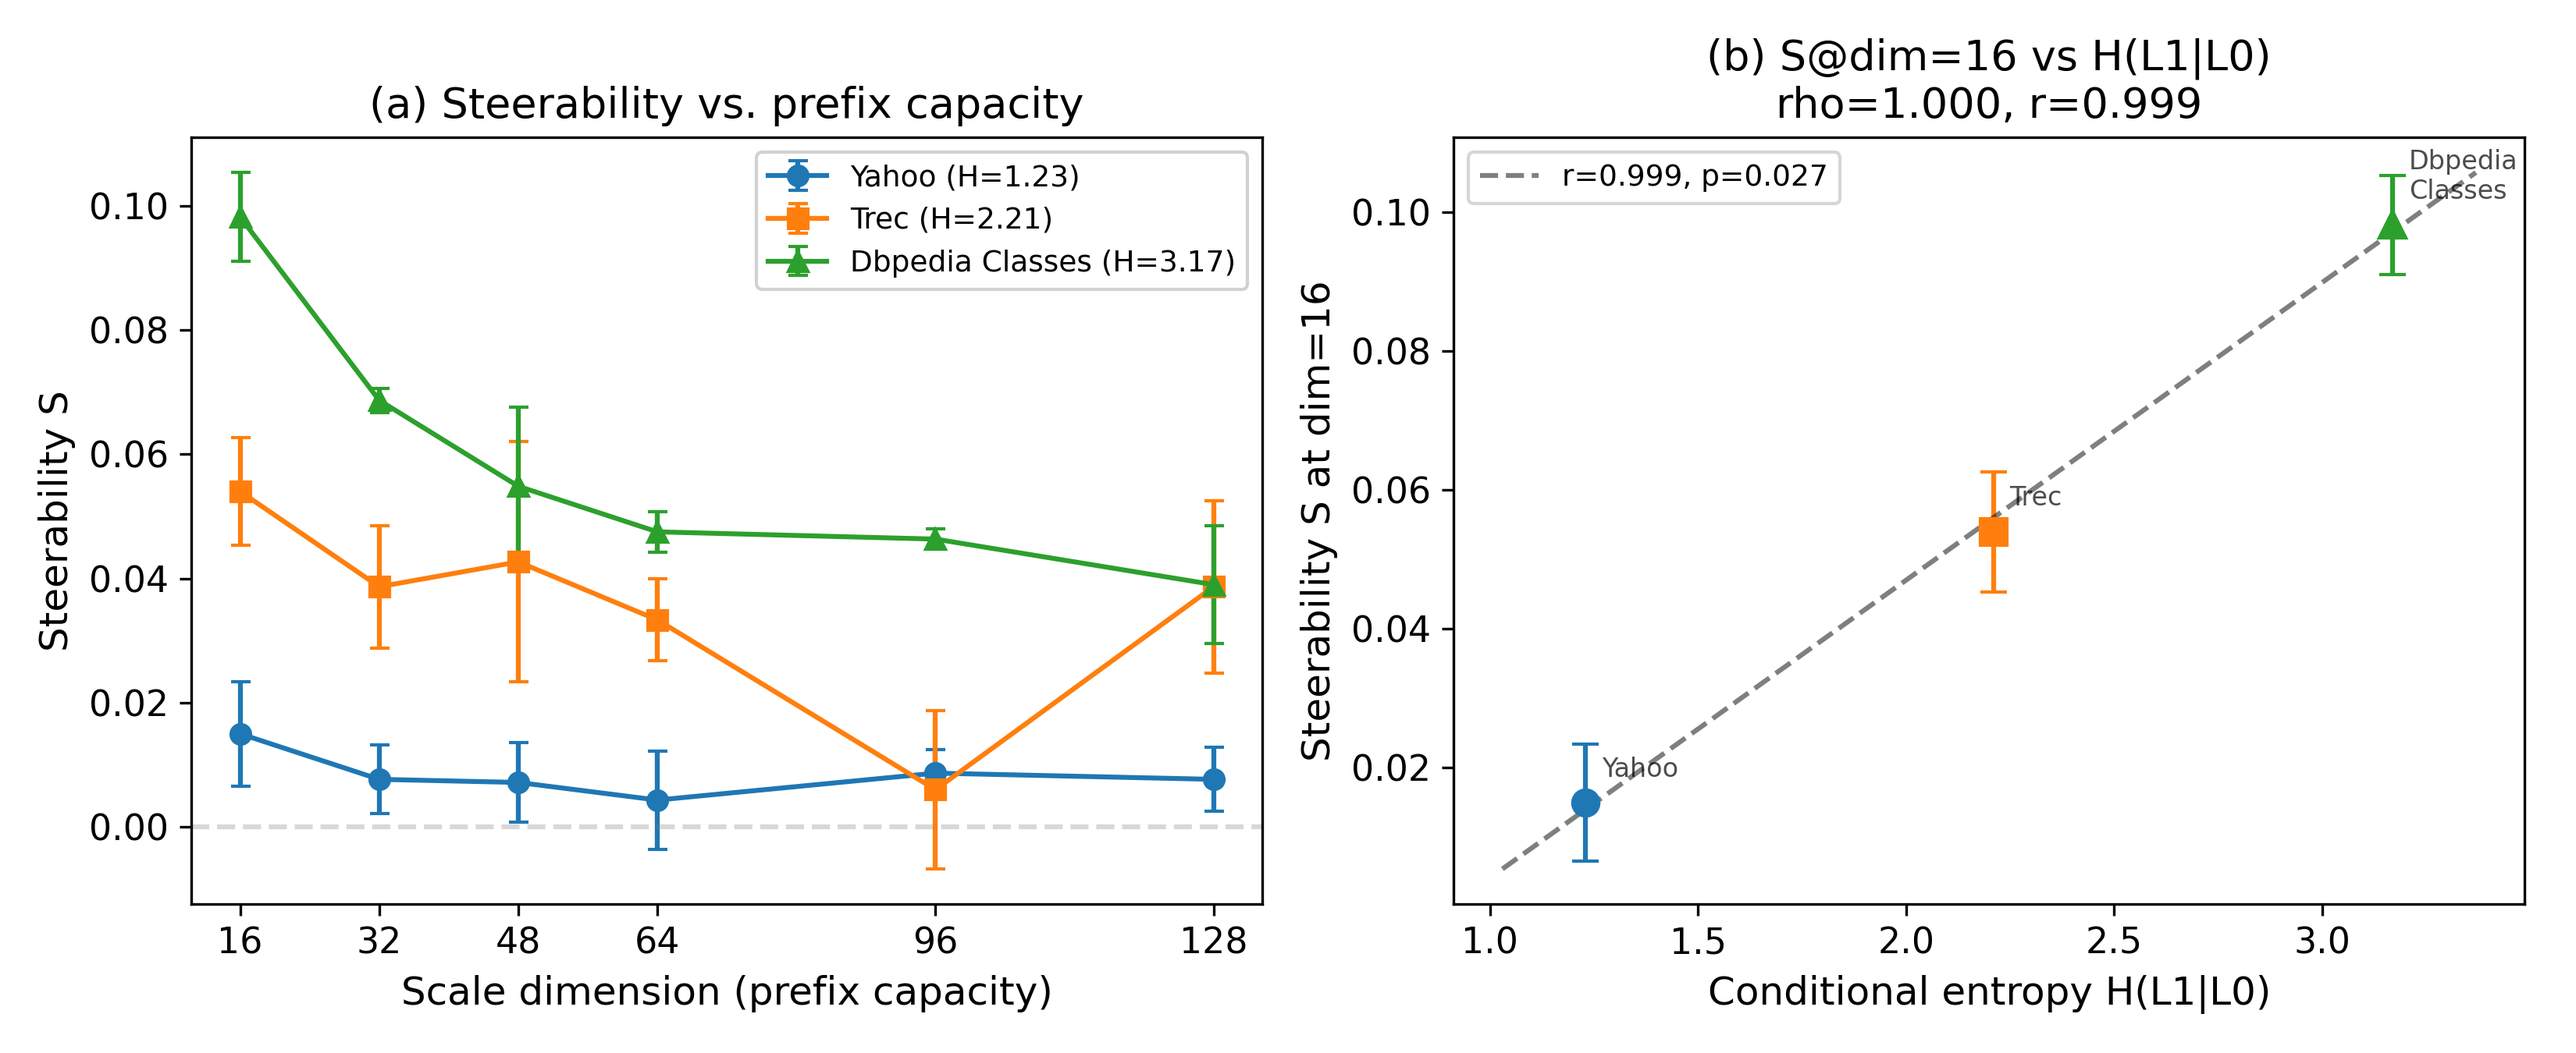
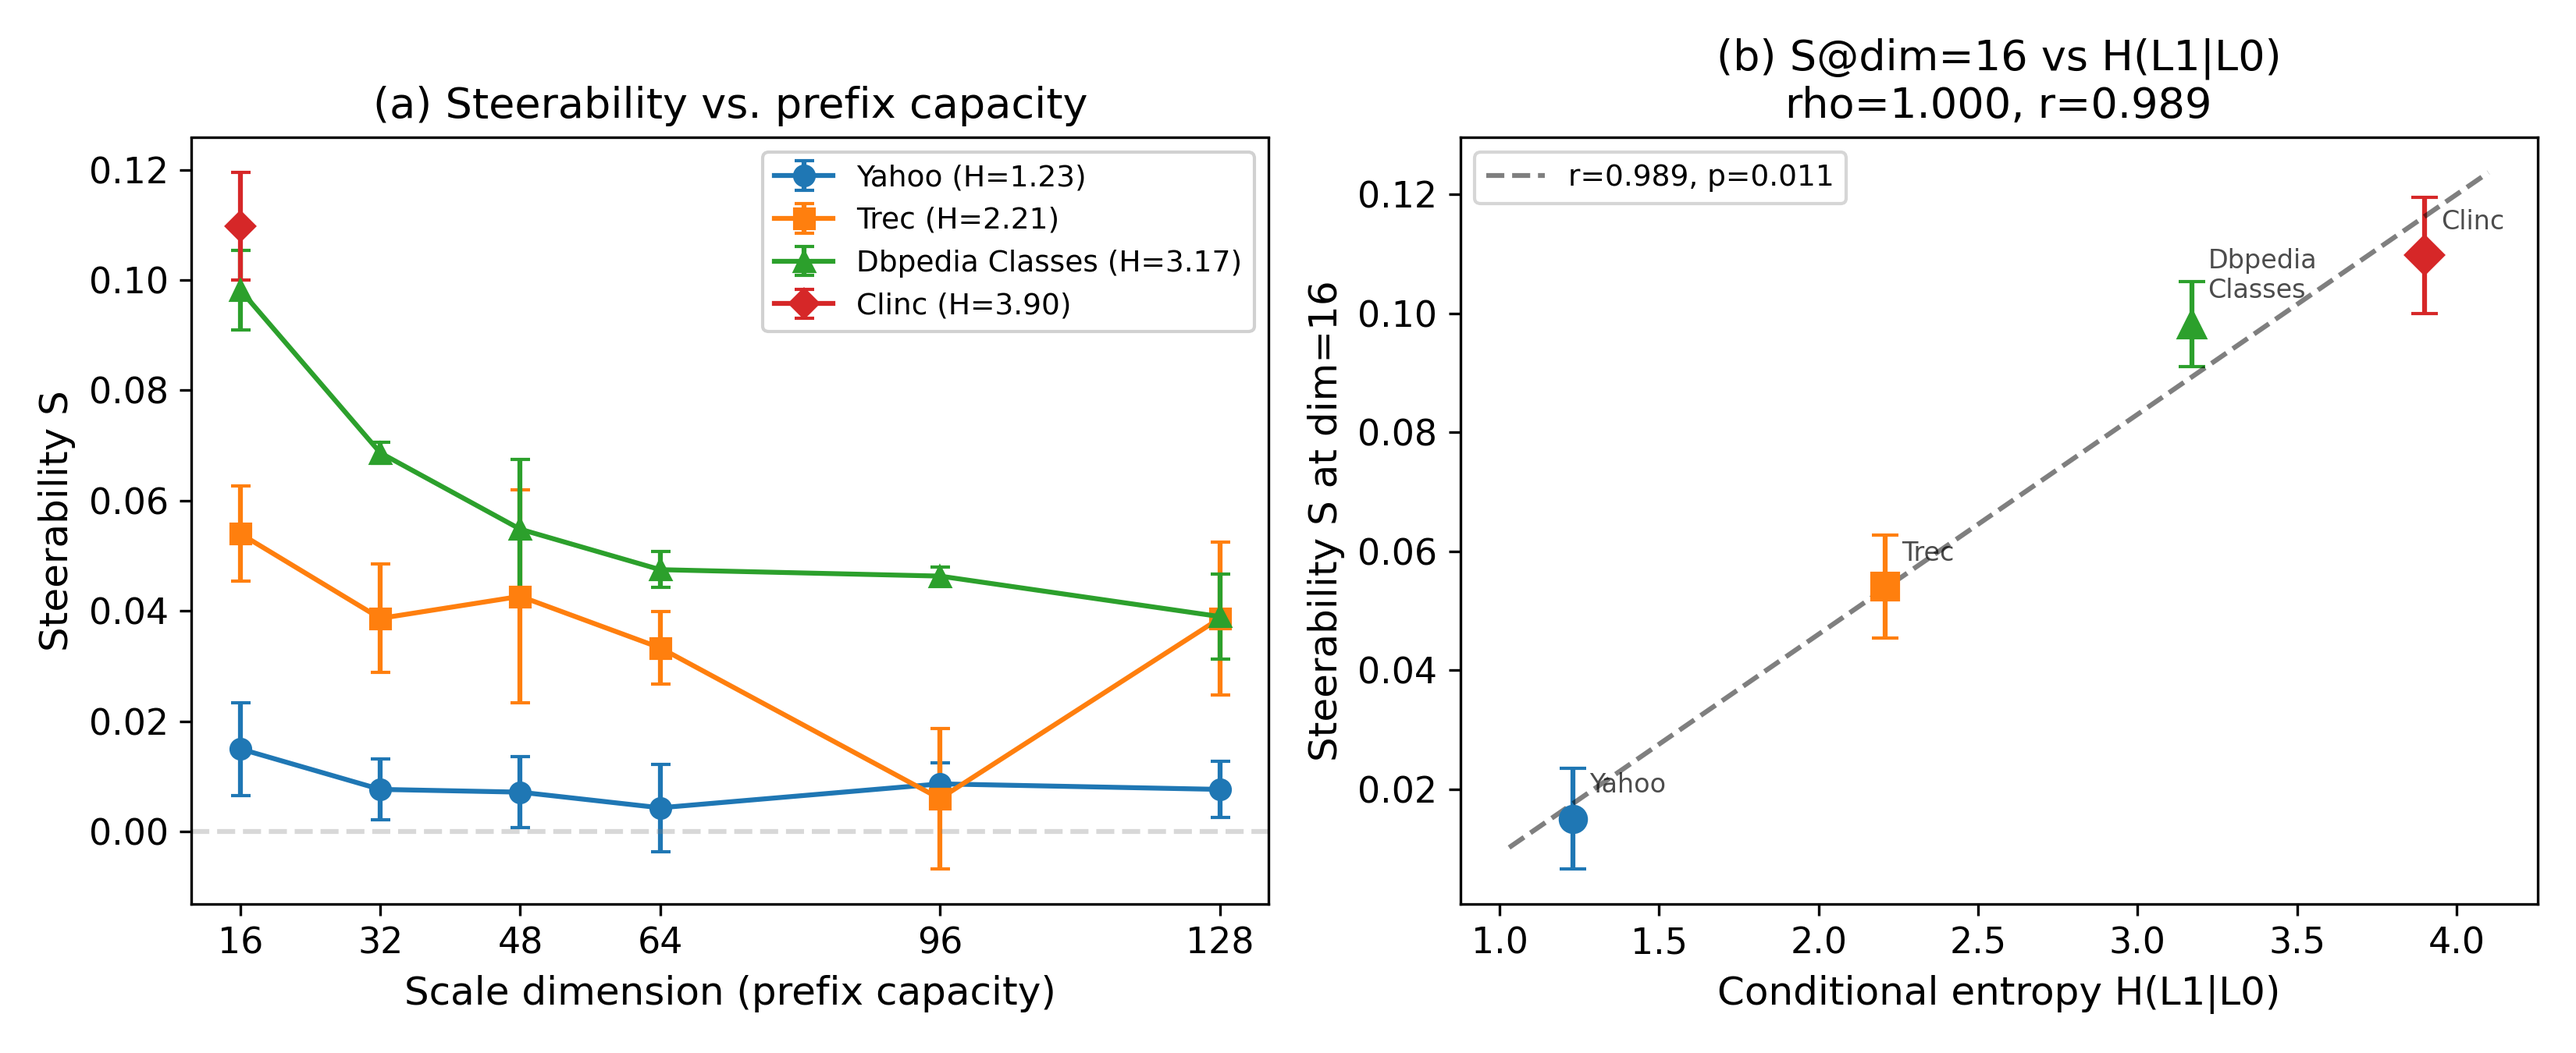
Update capacity sweep to 4 datasets: rho=1.000, r=0.989 (p=0.011)
CLINC added as 4th data point, strengthens scaling law.
Regenerated figures with all available data.

diff --git a/moonshot-fractal-embeddings/paper/fractal_embeddings.tex b/moonshot-fractal-embeddings/paper/fractal_embeddings.tex
@@ -441,10 +441,10 @@ $K_0$ & $\hlz$ & $\hlo$ & Branch & V5 $\steer$ & MRL $\steer$ & Gap \\
 The synthetic experiment also resolves the observational confound: steerability is driven by $\hlz$ (prefix task demand), not $\hlo$. In natural datasets, the $\hlo$ correlation arises because the two entropies covary. Figure~\ref{fig:entropy_alloc} in the appendix visualises both relationships.
 
 \paragraph{Real-data capacity sweep.}
-To validate the Goldilocks prediction on natural hierarchies, we sweep the scale dimension (prefix capacity) across $d_s \in \{16, 32, 48, 64, 96, 128\}$ on three datasets spanning the $\hlo$ range: Yahoo ($\hlo = 1.23$), TREC ($2.21$), and DBPedia Classes ($3.17$).
+To validate the Goldilocks prediction on natural hierarchies, we sweep the scale dimension (prefix capacity) across $d_s \in \{16, 32, 48, 64, 96, 128\}$ on four datasets spanning the $\hlo$ range: Yahoo ($\hlo = 1.23$), TREC ($2.21$), DBPedia Classes ($3.17$), and CLINC ($3.90$).
 Three seeds per condition.
 All datasets peak at $d_s = 16$ (the minimum tested), consistent with the synthetic finding that the default 64d prefix is already at or beyond the Goldilocks optimum for these hierarchies.
-The key finding is in the \emph{scaling law at fixed capacity}: steerability at $d_s = 16$ scales nearly perfectly with conditional entropy ($\rho = 1.000$, $r = 0.999$, $p = 0.027$), confirming that hierarchy complexity drives the steerability signal at matched capacity.
+The key finding is in the \emph{scaling law at fixed capacity}: steerability at $d_s = 16$ scales nearly perfectly with conditional entropy across all four datasets ($\rho = 1.000$, $r = 0.989$, $p = 0.011$), confirming that hierarchy complexity drives the steerability signal at matched capacity.
 
 \paragraph{Alignment vs.\ capacity control.}
 A natural objection is that steerability might emerge from \emph{any} sufficient-capacity model, without hierarchy-aligned supervision.
